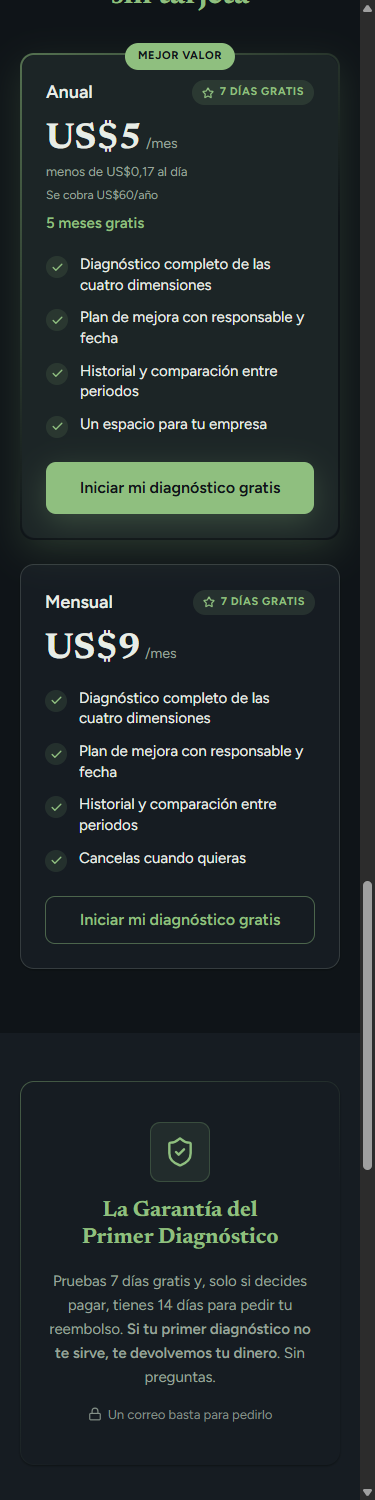
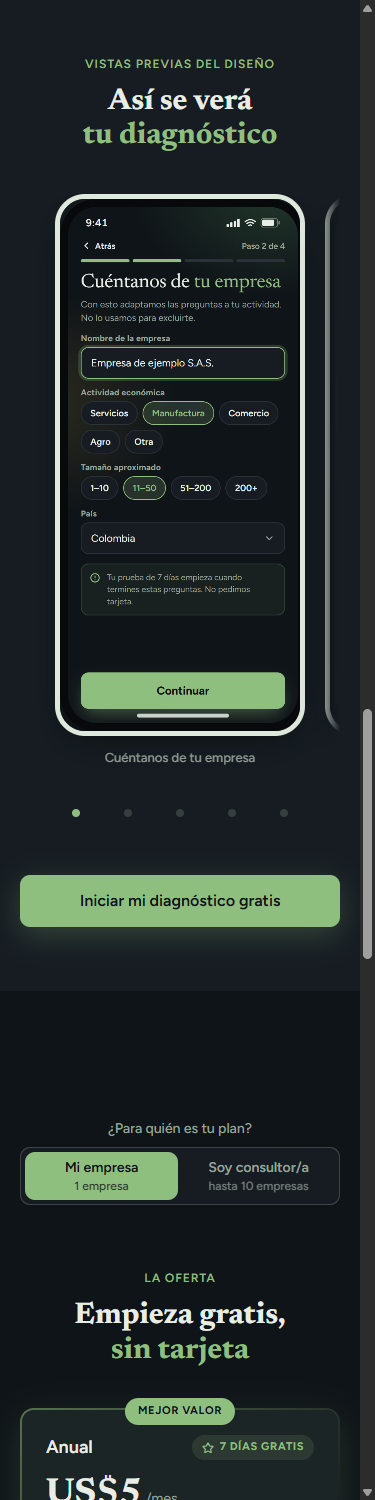
feat: landing escaneable - agitacion con calculadora, garantia en cajas, botones repetidos

diff --git a/components/landing/AgitacionCosto.tsx b/components/landing/AgitacionCosto.tsx
@@ -1,0 +1,137 @@
+'use client';
+
+// §3 AGITACIÓN (versión escaneable). Sustituye a la Agitación del kit, que solo admite frases y
+// una caja de contraste. Aquí: título que se entiende solo, 3 mini-tarjetas con ícono y una
+// calculadora con los números DE LA PERSONA (el costo de la inacción sin inventar cifras).
+// Mismo fondo elevado que el Problema (un solo movimiento visual, 55 §3). Desviación del kit
+// anotada en ESTADO.md.
+
+import { useState } from 'react';
+import { motion } from 'motion/react';
+import { FileSpreadsheet, Minus, Plus, Repeat, SearchX } from 'lucide-react';
+import { IconChip, SectionShell, useReveal, VIEWPORT_ONCE } from './ui';
+import { MarkedCopy } from './MarkedCopy';
+
+const TARJETAS = [
+  { icon: Repeat, titulo: 'Rehaces', detalle: 'El mismo diagnóstico, cada vez que te lo piden.' },
+  { icon: FileSpreadsheet, titulo: 'Buscas', detalle: 'La última versión entre Excel y correos.' },
+  { icon: SearchX, titulo: 'Adivinas', detalle: 'Qué te falta, hasta que alguien lo pregunta.' },
+];
+
+const formato = new Intl.NumberFormat('es-CO', { maximumFractionDigits: 1 });
+
+function Contador({
+  etiqueta,
+  valor,
+  onCambio,
+  max,
+}: {
+  etiqueta: string;
+  valor: number;
+  onCambio: (n: number) => void;
+  max: number;
+}) {
+  const ajustar = (n: number) => onCambio(Math.min(max, Math.max(0, n)));
+  return (
+    <div>
+      <label className="block text-sm font-medium text-[var(--text-secondary)]">{etiqueta}</label>
+      <div className="mt-2 flex items-center gap-2">
+        <button
+          type="button"
+          aria-label={`Menos: ${etiqueta}`}
+          onClick={() => ajustar(valor - 1)}
+          className="flex size-12 shrink-0 items-center justify-center rounded-[var(--radius-button)] border border-[color-mix(in_oklab,var(--text-tertiary)_40%,transparent)] text-[var(--text-primary)] [touch-action:manipulation]"
+        >
+          <Minus size={20} aria-hidden="true" />
+        </button>
+        <input
+          type="number"
+          inputMode="numeric"
+          min={0}
+          max={max}
+          value={valor}
+          aria-label={etiqueta}
+          onChange={(e) => ajustar(Number(e.target.value) || 0)}
+          className="h-12 w-full min-w-0 rounded-[var(--radius-button)] border border-[color-mix(in_oklab,var(--text-tertiary)_40%,transparent)] bg-[var(--bg)] px-2 text-center text-xl font-semibold tabular-nums text-[var(--text-primary)] [font-family:var(--font-display)]"
+        />
+        <button
+          type="button"
+          aria-label={`Más: ${etiqueta}`}
+          onClick={() => ajustar(valor + 1)}
+          className="flex size-12 shrink-0 items-center justify-center rounded-[var(--radius-button)] border border-[color-mix(in_oklab,var(--text-tertiary)_40%,transparent)] text-[var(--text-primary)] [touch-action:manipulation]"
+        >
+          <Plus size={20} aria-hidden="true" />
+        </button>
+      </div>
+    </div>
+  );
+}
+
+export function AgitacionCosto({ id }: { id?: string }) {
+  const { contenedor, item } = useReveal();
+  // Valores de ejemplo para que la tarjeta no se vea vacía; la persona los cambia por los suyos.
+  const [horas, setHoras] = useState(4);
+  const [informes, setInformes] = useState(6);
+  const total = horas * informes;
+  const jornadas = total / 8;
+
+  return (
+    <SectionShell id={id} elevacion="elevada" flush="top" ariaLabel="El costo de seguir igual">
+      <motion.div
+        variants={contenedor}
+        initial="hidden"
+        whileInView="visible"
+        viewport={VIEWPORT_ONCE}
+        className="mx-auto max-w-[620px]"
+      >
+        <motion.h2
+          variants={item}
+          className="text-balance text-[30px] font-bold leading-[1.15] text-[var(--text-primary)] [font-family:var(--font-display)] md:text-[40px]"
+        >
+          <MarkedCopy text="Cada pedido te cuesta [acento]volver a empezar[/acento]" />
+        </motion.h2>
+
+        <ul className="mt-8 flex flex-col gap-3">
+          {TARJETAS.map((t) => (
+            <motion.li
+              key={t.titulo}
+              variants={item}
+              className="flex items-center gap-4 rounded-[var(--radius-card)] bg-[var(--bg)] p-4 shadow-[var(--shadow-1)]"
+            >
+              <IconChip icon={t.icon} tone="muted" />
+              <div>
+                <p className="text-[17px] font-semibold text-[var(--text-primary)]">{t.titulo}</p>
+                <p className="mt-0.5 text-[15px] leading-snug text-[var(--text-secondary)]">{t.detalle}</p>
+              </div>
+            </motion.li>
+          ))}
+        </ul>
+
+        <motion.div
+          variants={item}
+          className="mt-8 rounded-[var(--radius-card)] border border-[color-mix(in_oklab,var(--accent)_30%,transparent)] bg-[var(--bg)] p-5"
+        >
+          <p className="text-[12px] font-semibold uppercase tracking-[0.08em] text-[var(--accent)]">
+            Calcula tu costo de rehacer
+          </p>
+          <p className="mt-1 text-sm text-[var(--text-secondary)]">Ejemplo: cámbialo por tus números.</p>
+
+          <div className="mt-4 grid grid-cols-1 gap-4 sm:grid-cols-2">
+            <Contador etiqueta="Horas por informe" valor={horas} onCambio={setHoras} max={200} />
+            <Contador etiqueta="Informes al año" valor={informes} onCambio={setInformes} max={500} />
+          </div>
+
+          <div className="mt-5 border-t border-[color-mix(in_oklab,var(--text-tertiary)_25%,transparent)] pt-4" aria-live="polite">
+            <p className="text-[36px] font-bold leading-none tabular-nums text-[var(--text-primary)] [font-family:var(--font-display)]">
+              {formato.format(total)} <span className="text-[17px] font-semibold text-[var(--text-secondary)]">horas al año</span>
+            </p>
+            <p className="mt-2 text-[15px] text-[var(--text-secondary)]">
+              son <strong className="font-semibold text-[var(--text-primary)]">{formato.format(jornadas)} jornadas</strong> de 8 horas rehaciendo lo mismo.
+            </p>
+          </div>
+          <p className="mt-3 text-xs text-[var(--text-tertiary)]">Es una cuenta con tus números, no una estadística.</p>
+        </motion.div>
+      </motion.div>
+    </SectionShell>
+  );
+}

diff --git a/components/landing/LandingPage.tsx b/components/landing/LandingPage.tsx
@@ -3,12 +3,12 @@
 // Página de ventas de SustentaESG — las 10 secciones canónicas de 19, en orden.
 // Todo el copy sale de docs/copy/landing.md (trazado a FICHA-AVATAR.md). Estilo: FICHA-ARTE.md.
 
-import { FileSpreadsheet, Repeat, SearchX } from 'lucide-react';
+import { Clock, FileSpreadsheet, RotateCcw, SearchX, TrendingUp } from 'lucide-react';
 import { Hero } from './Hero';
 import { EjemploResultado } from './EjemploResultado';
 import { HeroVisual } from './HeroVisual';
 import { Problema } from './Problema';
-import { Agitacion } from './Agitacion';
+import { AgitacionCosto } from './AgitacionCosto';
 import { Solucion } from './Solucion';
 import { AppPorDentro } from './AppPorDentro';
 import { OfertaPorPerfil } from './OfertaPorPerfil';
@@ -16,7 +16,7 @@ import { Garantia } from './Garantia';
 import { Faq } from './Faq';
 import { CtaFinal } from './CtaFinal';
 import { FooterLegal } from './FooterLegal';
-import { StickyCtaMobile } from './ui';
+import { CtaButton, StickyCtaMobile } from './ui';
 import { ANIO_COPYRIGHT, APP_NAME, CTA_HREF, CTA_LABEL, SOPORTE_EMAIL } from '@/lib/site';
 
 export function LandingPage() {
@@ -35,22 +35,16 @@ export function LandingPage() {
 
       {/* 2. PROBLEMA */}
       <Problema
-        titulo="¿Te suena?"
+        titulo="¿Rehaces tu diagnóstico cada vez que te lo piden?"
         preguntas={[
-          { icon: Repeat, textoMarked: '¿Rehaces el mismo diagnóstico [b]cada vez[/b] que te piden información?' },
           { icon: FileSpreadsheet, textoMarked: '¿Tienes todo en Excel y [b]no sabes cuál es la última versión[/b]?' },
           { icon: SearchX, textoMarked: '¿Te piden datos y [b]no sabes qué tienes ni qué te falta[/b]?' },
+          { icon: TrendingUp, textoMarked: '¿Necesitas mostrar avances y [b]solo tienes documentos sueltos[/b]?' },
         ]}
       />
 
       {/* 3. AGITACIÓN */}
-      <Agitacion
-        frases={[
-          'Cada pedido de información te obliga a [b]volver a juntar los mismos datos[/b].',
-          'Mientras buscas la última versión, [acento]se va el tiempo[/acento] que podrías dedicar a mejorar.',
-          'Las plantillas guardan datos, pero [b]no te dicen qué falta ni qué hacer primero[/b].',
-        ]}
-      />
+      <AgitacionCosto />
 
       {/* 4. SOLUCIÓN — mecanismo bautizado: la Rueda de Madurez */}
       <Solucion
@@ -69,6 +63,7 @@ export function LandingPage() {
           labelDespues: 'Después',
           despues: 'Un espacio por empresa con tu diagnóstico, tu plan y tu historial.',
         }}
+        cta={<CtaButton href={CTA_HREF}>{CTA_LABEL}</CtaButton>}
       />
 
       {/* 5. LA APP POR DENTRO — vistas previas del diseño (la app se está construyendo) */}
@@ -94,8 +89,13 @@ export function LandingPage() {
       {/* 7. GARANTÍA */}
       <Garantia
         nombre="La Garantía del Primer Diagnóstico"
-        condicionMarked="Pruebas 7 días gratis y, solo si decides pagar, tienes 14 días para pedir tu reembolso. [b]Si tu primer diagnóstico no te sirve, te devolvemos tu dinero[/b]. Sin preguntas."
+        condicionMarked="Si tu primer diagnóstico no te sirve, [b]te devolvemos tu dinero[/b]. Sin preguntas."
+        cajas={[
+          { icon: Clock, titulo: '7 días gratis', detalle: 'Sin tarjeta y sin cobro automático.' },
+          { icon: RotateCcw, titulo: '14 días para pedir tu reembolso', detalle: 'Solo si decides pagar.' },
+        ]}
         pisoLegal="Un correo basta para pedirlo"
+        cta={<CtaButton href={CTA_HREF}>{CTA_LABEL}</CtaButton>}
       />
 
       {/* 8. FAQ */}
@@ -140,7 +140,7 @@ export function LandingPage() {
         ctaLabel={CTA_LABEL}
         ctaHref={CTA_HREF}
         recap="Garantía del Primer Diagnóstico · 7 días gratis sin tarjeta"
-        psMarked="PS: SustentaESG ordena tu diagnóstico, tu plan y tu historial con la Rueda de Madurez, un espacio por empresa. Hoy empiezas con 7 días gratis, sin tarjeta, y la Garantía del Primer Diagnóstico."
+        psMarked="PS: Hoy entras con 7 días gratis, sin tarjeta, y con la Garantía del Primer Diagnóstico."
       />
 
       {/* 10. FOOTER LEGAL — todas las páginas enlazadas existen */}

diff --git a/components/landing/Garantia.tsx b/components/landing/Garantia.tsx
@@ -7,6 +7,7 @@
 // Nunca placeholders ("garantía visible"): se nombra la política concreta o la
 // sección no se monta (52 §5). El plazo = el configurado en Hotmart (19 §7).
 
+import type { ReactNode } from 'react';
 import { motion } from 'motion/react';
 import { Lock, ShieldCheck } from 'lucide-react';
 import type { LucideIcon } from 'lucide-react';
@@ -22,10 +23,14 @@ export interface GarantiaProps {
   pisoLegal?: string;
   /** default ShieldCheck (Lucide) — siempre SVG. */
   icon?: LucideIcon;
+  /** Plazos en cajas cortas con ícono (escaneables en mobile): reemplazan el párrafo largo. */
+  cajas?: { icon: LucideIcon; titulo: string; detalle: string }[];
+  /** CTA repetido tras la garantía (mismo verbo y destino que el hero). */
+  cta?: ReactNode;
   id?: string;
 }
 
-export function Garantia({ nombre, condicionMarked, pisoLegal, icon: Icono = ShieldCheck, id }: GarantiaProps) {
+export function Garantia({ nombre, condicionMarked, pisoLegal, icon: Icono = ShieldCheck, cajas, cta, id }: GarantiaProps) {
   warnCopy('Garantía → condición', condicionMarked, 30);
   const { contenedor, item } = useReveal();
 
@@ -54,6 +59,22 @@ export function Garantia({ nombre, condicionMarked, pisoLegal, icon: Icono = Shi
               <p className="max-w-[44ch] text-[15px] leading-[1.6] text-[var(--text-secondary)]">
                 <MarkedCopy text={condicionMarked} />
               </p>
+              {cajas && (
+                <ul className="grid w-full grid-cols-1 gap-3 text-left sm:grid-cols-2">
+                  {cajas.map((c) => (
+                    <li
+                      key={c.titulo}
+                      className="flex items-start gap-3 rounded-[var(--radius-card)] bg-[var(--bg)] p-4"
+                    >
+                      <c.icon size={22} strokeWidth={1.8} color="var(--accent)" aria-hidden="true" className="mt-0.5 shrink-0" />
+                      <div>
+                        <p className="text-[16px] font-semibold leading-snug text-[var(--text-primary)]">{c.titulo}</p>
+                        <p className="mt-0.5 text-[14px] leading-snug text-[var(--text-secondary)]">{c.detalle}</p>
+                      </div>
+                    </li>
+                  ))}
+                </ul>
+              )}
               {pisoLegal && (
                 <p className="flex items-center gap-1.5 text-[13px] text-[var(--text-tertiary)]">
                   <Lock size={14} aria-hidden="true" />
@@ -63,6 +84,11 @@ export function Garantia({ nombre, condicionMarked, pisoLegal, icon: Icono = Shi
             </div>
           </Hairline>
         </motion.div>
+        {cta && (
+          <motion.div variants={item} className="mt-8 flex justify-center">
+            {cta}
+          </motion.div>
+        )}
       </motion.div>
     </SectionShell>
   );

diff --git a/components/landing/Solucion.tsx b/components/landing/Solucion.tsx
@@ -39,6 +39,8 @@ export interface SolucionProps {
   };
   /** Ejemplo de resultado (prueba concreta del mecanismo), rotulado como ejemplo por quien lo pasa. */
   ejemplo?: ReactNode;
+  /** CTA repetido tras el mecanismo (mismo verbo y destino que el hero). */
+  cta?: ReactNode;
   id?: string;
 }
 
@@ -50,6 +52,7 @@ export function Solucion({
   pasos,
   antesDespues,
   ejemplo,
+  cta,
   id,
 }: SolucionProps) {
   warnCopy('Solución → título', tituloMarked, 8);
@@ -123,6 +126,11 @@ export function Solucion({
                 {antesDespues.despues}
               </p>
             </div>
+          </motion.div>
+        )}
+        {cta && (
+          <motion.div variants={item} className="mt-10 flex justify-center">
+            {cta}
           </motion.div>
         )}
       </motion.div>

diff --git a/ESTADO.md b/ESTADO.md
@@ -104,3 +104,5 @@ Tu OK a la Etapa 0 → Etapa 1 (identidad visual): pregunta de referencia + 3 es
 - direcciones-abc / vista-previa / veredicto: la revisión independiente de la landing sigue en NO LISTA (3.ª ronda pendiente) — ver docs/revisiones/landing-veredicto.md.
 - landing / veredicto del revisor (5.ª ronda, 2026-10-21): usabilidad 34/40 (techo sin flujo real = 35; hacen falta 36), craft 16/20 ✓, copy 17/20 ✓. NO LISTA solo por usabilidad: faltan criterios que dependen del flujo real de la Etapa 3 (carga con red lenta, deshacer/volver, validación de formularios, atajos del flujo, errores reales de registro y pago). Se cerró el único punto recuperable (barra fija sin tapar contenido, h8) → se espera 35. DECISIÓN DEL USUARIO PENDIENTE: aceptar 35 como techo previo a la Etapa 3 y volver a pasar el revisor al terminar el flujo real. Pendientes menores del revisor (no bloquean): entrada escalonada y rueda animada en el hero (movimiento 3→4), grano/gradiente en el fondo (profundidad 3→4), un dato verificable del método (especificidad 3→4).
 - 2026-10-21: el usuario pidió elevar la landing con el prompt /landing (escaneabilidad mobile, ángulo de copy primero, CTAs repetidos, auditoría de escaneabilidad). Respuestas ya en ESTADO: público = quien lleva la sostenibilidad de una o varias empresas; promesa = «deja de reconstruir tus datos»; precio US$9/60 y 15/70 (hipótesis), garantía 14 días (por verificar en Hotmart), SIN testimonios. Destino del botón: registro gratis → recorrido de inicio → planes (modelo 2 con registro; decidido por Claude). Propuesta de cambios A–E presentada al usuario; EN ESPERA de su OK antes de tocar la página. Conflicto señalado: el prompt pide carrusel automático, pero 19 §5 lo prohíbe (auto-avance); se mantiene manual con scroll-snap.
+
+- 2026-10-21: el usuario APROBÓ los cambios A–E con calculadora y ACEPTÓ 35/40 como techo de usabilidad antes de la Etapa 3. Implementado: components/landing/AgitacionCosto.tsx (sustituye a la Agitación del kit: el kit no admite título ni íconos; desviación justificada), Garantia con cajas y slot de botón, Solucion con slot de botón. 6.ª revisión independiente con auditoría de escaneabilidad en curso (docs/revisiones/landing-veredicto.md). Decisión del dueño sobre el techo: ACEPTADO 35 (los criterios h1, h3, h5, h7, h9 dependen del flujo real de la Etapa 3; se vuelve a pasar el revisor al terminarlo).

diff --git a/docs/copy/landing.md b/docs/copy/landing.md
@@ -1,4 +1,4 @@
-# Copy de la página de ventas — SustentaESG (v1.1, 2026-10-21 — ajustado tras la primera revisión independiente)
+# Copy de la página de ventas — SustentaESG (v1.2, 2026-10-21 — elevada con las reglas de escaneabilidad mobile)
 
 > Marcado: `[acento]…[/acento]` = palabra que vende (color de acento) · `[b]…[/b]` = palabra importante.
 > Todo se traza a FICHA-AVATAR.md (aprobada 2026-10-21) y a docs/producto/PROPUESTA-DE-VALOR.md.
@@ -74,3 +74,11 @@
 
 ## Lo que NO dice la página (por diseño)
 Sin cifras de clientes ni de mercado · sin testimonios · sin «auditable», «certificación», «cumplimiento garantizado» · sin «evita perder contratos» · sin «sin consultores» · sin porcentajes ni minutos de ahorro · sin «informes descargables» ni «sube tus documentos» (aún no existen).
+
+## v1.2 — cambios A–E (aprobados por el usuario el 2026-10-21)
+- A. Problema: título «¿Rehaces tu diagnóstico cada vez que te lo piden?» + 3 preguntas con ícono (dolores 2, 6 y 5 de la ficha).
+- B. Agitación: título «Cada pedido te cuesta [acento]volver a empezar[/acento]» + 3 mini-tarjetas con ícono (Rehaces / Buscas / Adivinas) + calculadora de costo de rehacer con los números de la persona (horas por informe × informes al año; ejemplo precargado 4 × 6 = 24 horas ≈ 3 jornadas, rotulado como ejemplo; sin cifras inventadas).
+- C. Garantía: condición de 1 línea («Si tu primer diagnóstico no te sirve, [b]te devolvemos tu dinero[/b]. Sin preguntas.») + 2 cajas: «7 días gratis — sin tarjeta y sin cobro automático» · «14 días para pedir tu reembolso — solo si decides pagar».
+- D. Botón «Iniciar mi diagnóstico gratis» repetido tras el mecanismo, tras la app por dentro, tras la garantía, en la oferta, en el cierre y en la barra fija.
+- E. PS: «PS: Hoy entras con 7 días gratis, sin tarjeta, y con la Garantía del Primer Diagnóstico.»
+- Sin cambio consciente: carrusel manual (19 §5 prohíbe el avance automático).
